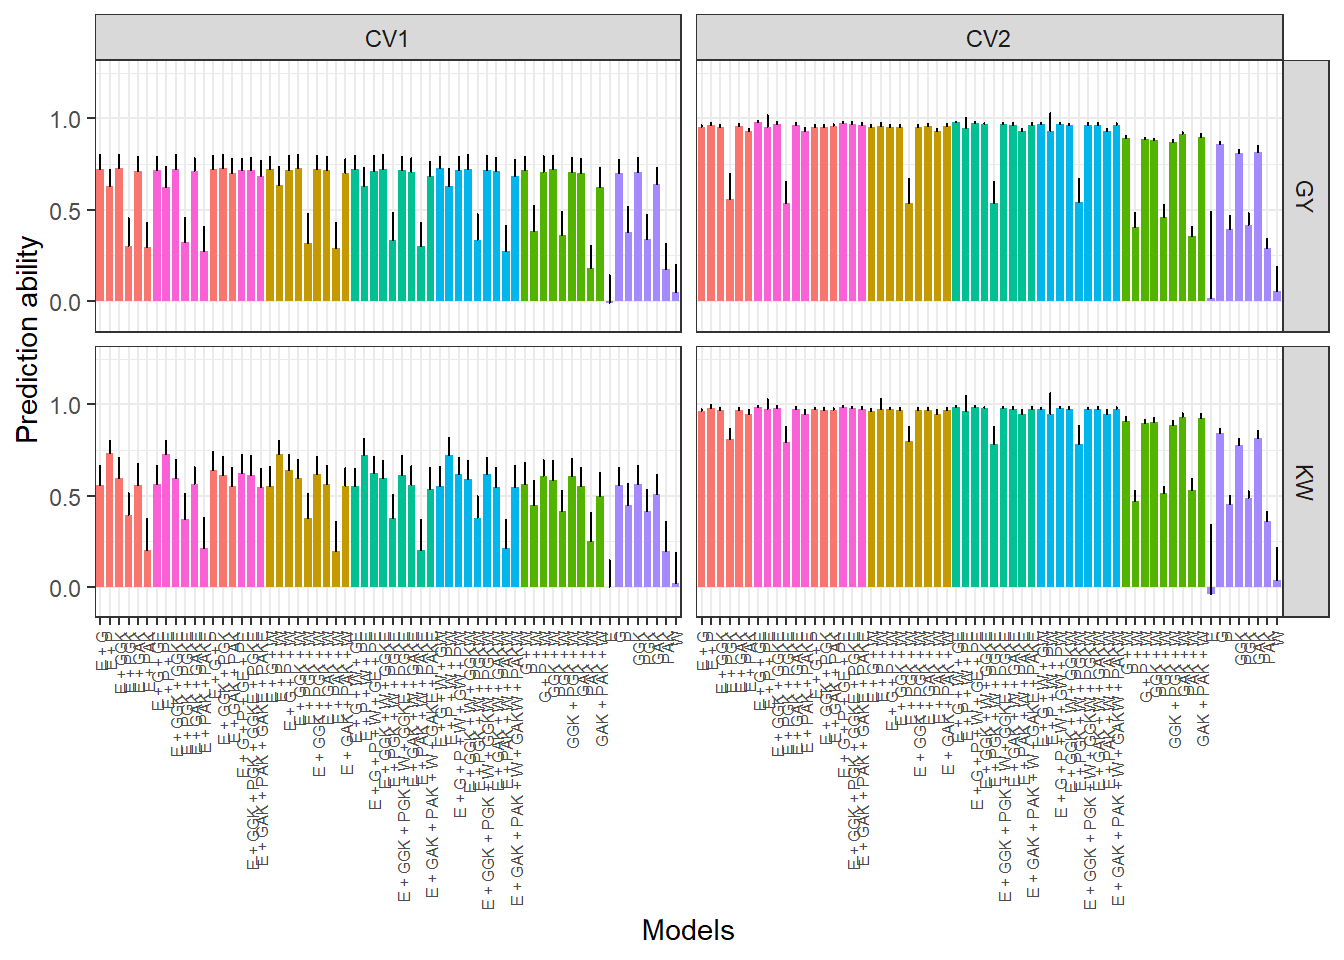
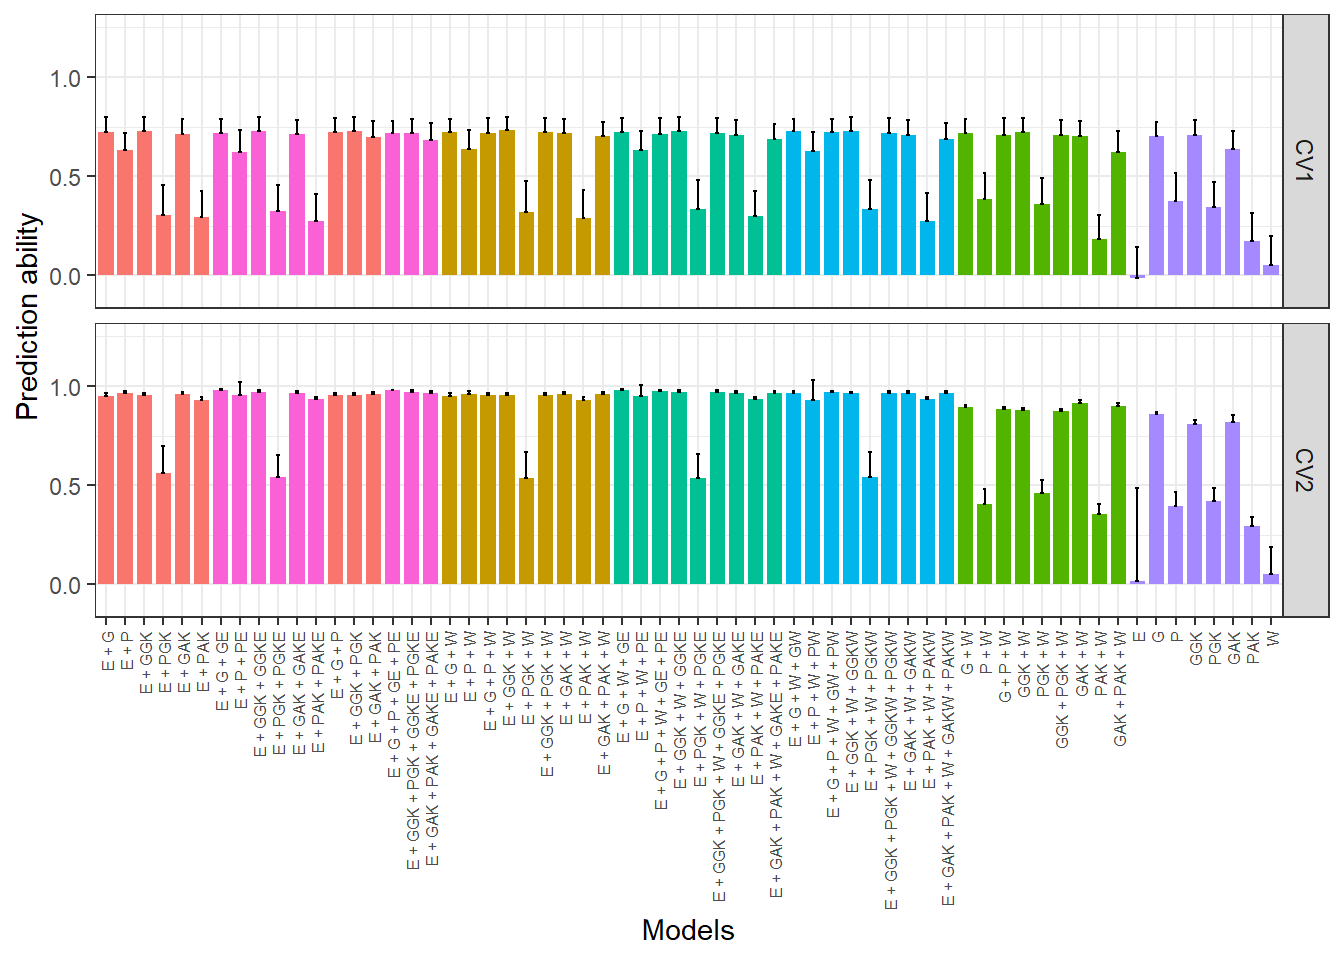
update analysis .rmd and .html

diff --git a/docs/analysis.html b/docs/analysis.html
@@ -538,15 +538,15 @@ project makes it easier to run your code on other machines.</p>
 <div class="panel panel-default">
 <div class="panel-heading">
 <p class="panel-title">
-<a data-toggle="collapse" data-parent="#workflowr-checks" href="#strongRepositoryversionstrongahrefhttpsgithubcomWevertonGomesCostaIntegratingnirgenomickerneltree1a46586ccb8352fcaef680935610624d39c9788atargetblank1a46586a">
+<a data-toggle="collapse" data-parent="#workflowr-checks" href="#strongRepositoryversionstrongahrefhttpsgithubcomWevertonGomesCostaIntegratingnirgenomickerneltreedf8457c76b7c48adfe083b49e7eab5554a5f90d1targetblankdf8457ca">
 <span class="glyphicon glyphicon-ok text-success"
 aria-hidden="true"></span> <strong>Repository version:</strong>
-<a href="https://github.com/WevertonGomesCosta/Integrating-nir-genomic-kernel/tree/1a46586ccb8352fcaef680935610624d39c9788a" target="_blank">1a46586</a>
+<a href="https://github.com/WevertonGomesCosta/Integrating-nir-genomic-kernel/tree/df8457c76b7c48adfe083b49e7eab5554a5f90d1" target="_blank">df8457c</a>
 </a>
 </p>
 </div>
 <div
[2 lines of base64/hex data omitted]
 class="panel-collapse collapse">
 <div class="panel-body">
 <p>
@@ -556,7 +556,7 @@ reproducibility.
 </p>
 <p>
 The results in this page were generated with repository version
-<a href="https://github.com/WevertonGomesCosta/Integrating-nir-genomic-kernel/tree/1a46586ccb8352fcaef680935610624d39c9788a" target="_blank">1a46586</a>.
+<a href="https://github.com/WevertonGomesCosta/Integrating-nir-genomic-kernel/tree/df8457c76b7c48adfe083b49e7eab5554a5f90d1" target="_blank">df8457c</a>.
 See the <em>Past versions</em> tab to see a history of the changes made
 to the R Markdown and HTML files.
 </p>
@@ -575,6 +575,9 @@ Ignored files:
     Ignored:    .Rproj.user/
     Ignored:    data/Article_documents/
     Ignored:    data/Maize-NIRS-GBS-main/
+    Ignored:    output/Pred.ability/grafico_CV1_CV2.tiff
+    Ignored:    output/Pred.ability/grafico_exemplo_CV0_CV00.tiff
+    Ignored:    output/Pred.ability/grafico_exemplo_GY_CV0.tiff
     Ignored:    output/Pred.ability/graficos_gerados/
     Ignored:    output/ajuste_modelo/
     Ignored:    output/climate_results/combined_climate_plot.tiff
@@ -650,6 +653,40 @@ Message
 </tr>
 </thead>
 <tbody>
+<tr>
+<td>
+Rmd
+</td>
+<td>
+<a href="https://github.com/WevertonGomesCosta/Integrating-nir-genomic-kernel/blob/df8457c76b7c48adfe083b49e7eab5554a5f90d1/analysis/analysis.Rmd" target="_blank">df8457c</a>
+</td>
+<td>
+WevertonGomesCosta
+</td>
+<td>
+2025-11-04
+</td>
+<td>
+update analisys.Rmd and .html
+</td>
+</tr>
+<tr>
+<td>
+html
+</td>
+<td>
+<a href="https://rawcdn.githack.com/WevertonGomesCosta/Integrating-nir-genomic-kernel/df8457c76b7c48adfe083b49e7eab5554a5f90d1/docs/analysis.html" target="_blank">df8457c</a>
+</td>
+<td>
+WevertonGomesCosta
+</td>
+<td>
+2025-11-04
+</td>
+<td>
+update analisys.Rmd and .html
+</td>
+</tr>
 <tr>
 <td>
 Rmd
@@ -2002,8 +2039,8 @@ for (obj_name in to_keep) {
 rm(list = to_remove, envir = .GlobalEnv)
 gc()</code></pre>
 <pre><code>           used  (Mb) gc trigger   (Mb)  max used   (Mb)
-Ncells  1604954  85.8    2516732  134.5   2516732  134.5
-Vcells 21048095 160.6  175727200 1340.7 219659000 1675.9</code></pre>
+Ncells  1604970  85.8    2516773  134.5   2516773  134.5
+Vcells 21048481 160.6  175727516 1340.7 219659394 1675.9</code></pre>
 <pre class="r"><code># Lista todos os arquivos .rds na pasta output/Matrizes
 rds_files &lt;- list.files(&quot;output/Matrizes&quot;, pattern = &quot;\\.rds$&quot;, full.names = TRUE)
 
@@ -3250,6 +3287,43 @@ final_plot &lt;- grid_arrange_shared_legend(p1, p2, p3, p4)
 grid.newpage()
 grid.draw(final_plot)</code></pre>
 <p><img src="figure/analysis.Rmd/example-cv-1.png" width="100%" style="display: block; margin: auto;" /></p>
+<p>
+<button type="button" class="btn btn-default btn-xs btn-workflowr btn-workflowr-fig" data-toggle="collapse" data-target="#fig-example-cv-1">
+Past versions of example-cv-1.png
+</button>
+</p>
+<div id="fig-example-cv-1" class="collapse">
+<div class="table-responsive">
+<table class="table table-condensed table-hover">
+<thead>
+<tr>
+<th>
+Version
+</th>
+<th>
+Author
+</th>
+<th>
+Date
+</th>
+</tr>
+</thead>
+<tbody>
+<tr>
+<td>
+<a href="https://github.com/WevertonGomesCosta/Integrating-nir-genomic-kernel/blob/df8457c76b7c48adfe083b49e7eab5554a5f90d1/docs/figure/analysis.Rmd/example-cv-1.png" target="_blank">df8457c</a>
+</td>
+<td>
+WevertonGomesCosta
+</td>
+<td>
+2025-11-04
+</td>
+</tr>
+</tbody>
+</table>
+</div>
+</div>
 <pre class="r"><code>ggsave(&quot;output/cv-schemes.tiff&quot;, final_plot, width = 10, height = 8)</code></pre>
 </div>
 <div id="parâmetros-para-execução-dos-modelos" class="section level3">
@@ -3496,8 +3570,8 @@ cat(&quot;Rodando em &quot;, useCores, &quot; núcleos.&quot;)</code></pre>
 RAM não utilizada) antes de iniciar o trabalho pesado.</p>
 <pre class="r"><code>gc()  # Limpa memória antes da execução paralela</code></pre>
 <pre><code>           used  (Mb) gc trigger   (Mb)  max used   (Mb)
-Ncells  1843983  98.5    3601432  192.4   2516732  134.5
-Vcells 21512060 164.2  140581760 1072.6 219659000 1675.9</code></pre>
+Ncells  1844467  98.6    3602795  192.5   2516773  134.5
+Vcells 21513541 164.2  140582013 1072.6 219659394 1675.9</code></pre>
 </div>
 <div id="execução-dos-modelos-em-paralelo" class="section level3">
 <h3>14.2) Execução dos modelos em paralelo</h3>
@@ -3975,8 +4049,8 @@ finais.</p>
 rm(list = setdiff(ls(), c(&quot;Pheno&quot;, &quot;Pedigree&quot;, &quot;model_info&quot;)))
 gc()  # Limpa memória</code></pre>
 <pre><code>          used (Mb) gc trigger  (Mb)  max used   (Mb)
-Ncells 1847984 98.7    5705535 304.8   7131918  380.9
-Vcells 3616442 27.6   89972327 686.5 219659000 1675.9</code></pre>
+Ncells 1848468 98.8    5707711 304.9   7134638  381.1
+Vcells 3617915 27.7   89972489 686.5 219659394 1675.9</code></pre>
 </div>
 <div id="gráfico-de-barras-da-acurácia-preditiva-cv0-e-cv00"
 class="section level3">
@@ -4048,7 +4122,7 @@ p &lt;- df_cor %&gt;%
                 width = .2,
                 position = position_dodge(.9)) +
   theme_bw() +
-  facet_wrap(. ~  Env_Val, nrow = 2) +  # Um painel para cada esquema de validação
+  facet_wrap(. ~  Env_Val, nrow = 4) +  # Um painel para cada esquema de validação
   scale_y_continuous(&quot;Prediction ability&quot;, limits = c(-0.1,1.25)) +
   scale_x_discrete(&quot;Models&quot;) +
   theme(axis.text.x = element_text(
@@ -4109,6 +4183,10 @@ WevertonGomesCosta
 </table>
 </div>
 </div>
+<pre class="r"><code>ggsave(&quot;output/Pred.ability/grafico_exemplo_GY_CV0.tiff&quot;,
+       plot = p,
+       width = 8,
+       height = 8, dpi = 300)</code></pre>
 <pre class="r"><code>df_cor &lt;- read.csv(&quot;output/Pred.ability/Pred.ability.CV0.CV00.classified.csv&quot;)
 # Cria gráfico de barras com erro padrão e rótulos
 
@@ -4174,6 +4252,10 @@ WevertonGomesCosta
 </table>
 </div>
 </div>
+<pre class="r"><code>ggsave(&quot;output/Pred.ability/grafico_exemplo_CV0_CV00.tiff&quot;,
+       plot = p,
+       width = 16,
+       height = 10, dpi = 300)</code></pre>
 </div>
 <div id="geração-automatizada-de-gráficos-cv0-e-cv00"
 class="section level3">
@@ -4424,6 +4506,7 @@ cria uma “grade” de gráficos: <code>Trait</code> (GY, KW) define as
 # Cria gráfico de barras com erro padrão e rótulos
 
 p &lt;- df_cor %&gt;% 
+  filter(Trait == &quot;GY&quot;) %&gt;%
   #mutate(Description = forcats::fct_reorder(Description, ModelID)) %&gt;%
   ggplot(aes(x = reorder(Description, ModelID), y = M, fill = factor(Type))) +
   geom_bar(stat = &quot;identity&quot;, position = position_dodge(), width = 0.8, show.legend = FALSE) +
@@ -4431,7 +4514,7 @@ p &lt;- df_cor %&gt;%
                 width = .2,
                 position = position_dodge(.9)) +
   theme_bw() +
-  facet_grid(Trait ~ CV) +  # Um painel para cada esquema de validação
+  facet_grid(CV ~ .) +  # Um painel para cada esquema de validação
   scale_y_continuous(&quot;Prediction ability&quot;, limits = c(-0.1,1.25)) +
   scale_x_discrete(&quot;Models&quot;) +
   theme(axis.text.x = element_text(
@@ -4492,6 +4575,7 @@ WevertonGomesCosta
 </table>
 </div>
 </div>
+<pre class="r"><code>ggsave(&quot;output/Pred.ability/grafico_CV1_CV2.tiff&quot;, plot = p, width = 8, height = 8, dpi = 300)</code></pre>
 </div>
 <div id="geração-automatizada-de-gráficos-cv1-e-cv2"
 class="section level3">
